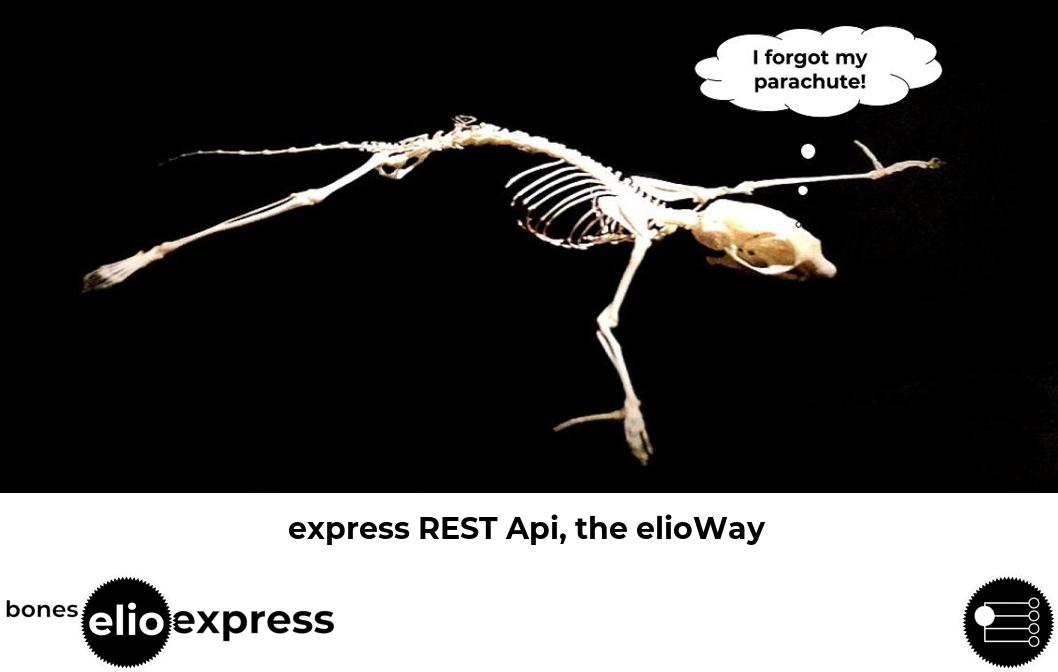
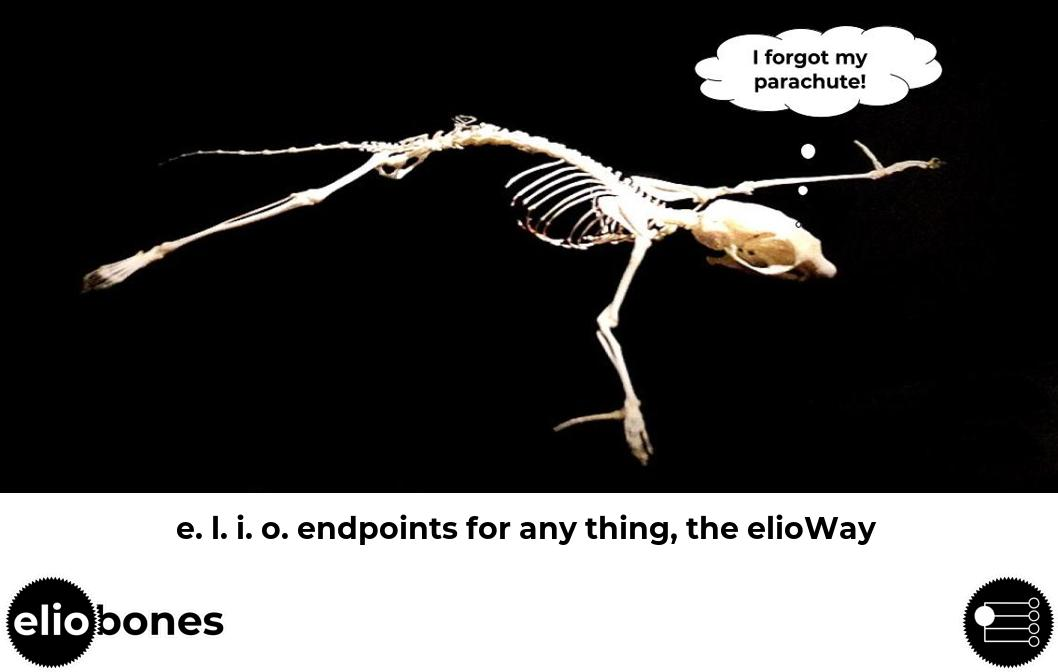
docs

Changed region(s): [[0.156, 0.75, 0.8422, 0.8125], [0.0, 0.8438, 0.3119, 1.0]]

diff --git a/README.md b/README.md
@@ -6,49 +6,6 @@
 
 Bare bones, NodeJS only, reusable elioWay _endpoints_ for your API, desktop or web client.
 
-## The TURDs
-
-Four **elioEngage** operations:
-
-- `takeupT` As in "take up carpentry". The "record create" endpoint.
-- `updateT` The "record create" endpoint.
-- `readT` The "record create" endpoint.
-- `deleteT` The "record create" endpoint.
-
-## The LUTEs
-
-Four **elioList** endpoints:
-
-- `listT` The "list all relateds record" endpoint.
-- `unlistT` The "record remove from list" endpoint.
-- `takeonT` The "record create and add to list" endpoint.
-- `enlistT` The "record add to list" endpoint.
-
-## PS
-
-Two **elioSchema** endpoints:
-
-- `pingT` An endpoint for checking the availability of endpoints.
-- `schemaT` An endpoint for getting metadata, or for getting a new blank record.
-
-## IOU
-
-Three **elioOptimize** endpoints, the very least we could do, but we expect you'll need more. You'll have to write those and share them. We'll share any we write here as well. For now there are just three.
-
-These three endpoints _are_ endpoints and they are rightly grouped as **elioBones**. The difference is that all the other endpoints above provide features you'd normally have to write for a new project, but not when you do it **the elioWay**. It's the 90% grunt work done for you - also the most boring stuff.
-
-Custom writing `optimizeT` endpoints are the heart of the elioWay. They are its plugins. Have fun coding functions which perform curious and interesting and useful manipulations of **elio** data.
-
-But for now... It's the least I owe.
-
-- `inflateT` An default endpoint which searches subdirectores for any which contain a `thing.json` file and lists them in the same tree structure.
-
-  - Each `thing.json` could also come with a corresponding "bones.js" that would drive a different kind of `inflateT` (like prep some thumbnails of the images mentioned in the `thing.json` list).
-  - You could swap `inflateT` or add a similar feature with a differently name endpoint which initialises the app from some starting data... for instance, spidering a Wiki entry to takeonT a list of Colombian birds from the page there.
-
-- `optimizeT` An default endpoint which checks the `Action.actionStatus` of every listed thing and reports on the overall completion status. You could swap it for an endpoint which summarises sales figures of bar staff and awards the top seller a QRCODE for a free round of drinks (which of course they are encouraged to spend immediately on a round for the staff and boss). Or which birds you see less often.
-
-- `undoT` An default endpoint which allows you to reverse data changes by going back a certain number of steps.
 
 We'll share any more we write. Share yours!
 
@@ -69,10 +26,10 @@ git clone https://gitlab.com/eliobones/bones.git
 cd bones
 npm i
 node demBones.js
-NODEENV identifier=dembones tew bones pingT
+identifier=dembones npm run bones -- pingT
 ```
 
-You can play some more with the following commands... get a feel for how an **elioWay** app operates.
+You can play some more with the following commands... get a feel for how an **elioWay** app operates. You'll need a .env file at some point:
 
 ```
 # Everything is permitted for everyone.
@@ -102,46 +59,46 @@ rm -rf $DATADIR
 Run 1 at a time, or in suggested groupings.
 
 ```
-tew bones pingT
+npm run bones -- pingT
 
-tew bones takeupT shopping --name="Today's Shopping List" --alternateName="Don't forget the milk!"
+npm run bones -- takeupT shopping --name="Today's Shopping List" --alternateName="Don't forget the milk!"
 
-tew bones takeonT shopping milk  --mainEntityOfPage=Action  --Action.actionStatus=PotentialActionStatus
+npm run bones -- takeonT shopping milk  --mainEntityOfPage=Action  --Action.actionStatus=PotentialActionStatus
 
-tew bones takeonT shopping honey  --mainEntityOfPage=Action
-tew bones updateT honey --Action.actionStatus=PotentialActionStatus
+npm run bones -- takeonT shopping honey  --mainEntityOfPage=Action
+npm run bones -- updateT honey --Action.actionStatus=PotentialActionStatus
 
-tew bones readT shopping
-tew bones listT shopping
+npm run bones -- readT shopping
+npm run bones -- listT shopping
 
-tew bones updateT honey --Action.actionStatus=CompletedActionStatus
-tew bones listT shopping
+npm run bones -- updateT honey --Action.actionStatus=CompletedActionStatus
+npm run bones -- listT shopping
 
-tew bones unlistT shopping milk
-tew bones listT shopping
+npm run bones -- unlistT shopping milk
+npm run bones -- listT shopping
 
-tew bones enlistT shopping milk
-tew bones listT shopping
+npm run bones -- enlistT shopping milk
+npm run bones -- listT shopping
 
-tew bones deleteT milk
-tew bones listT shopping
+npm run bones -- deleteT milk
+npm run bones -- listT shopping
 
-tew bones unlistT shopping milk
-tew bones listT shopping
+npm run bones -- unlistT shopping milk
+npm run bones -- listT shopping
 
-tew bones unlistT shopping milk
-tew bones listT shopping
+npm run bones -- unlistT shopping milk
+npm run bones -- listT shopping
 
-tew bones enlistT shopping milk
+npm run bones -- enlistT shopping milk
 
-tew bones optimizeT shopping
+npm run bones -- optimizeT shopping
 
-tew bones takeonT shopping milk  --mainEntityOfPage=Action  --Action.actionStatus=CompletedActionStatus
+npm run bones -- takeonT shopping milk  --mainEntityOfPage=Action  --Action.actionStatus=CompletedActionStatus
 
-tew bones optimizeT shopping
+npm run bones -- optimizeT shopping
 ```
 
-- [Play around with some more using godly examples](playing-god.html)
+- [Play around more using godly examples](https://elioway.gitlab.io/eliobones/bones/playing-god.html)
 
 ## TLDR
 
